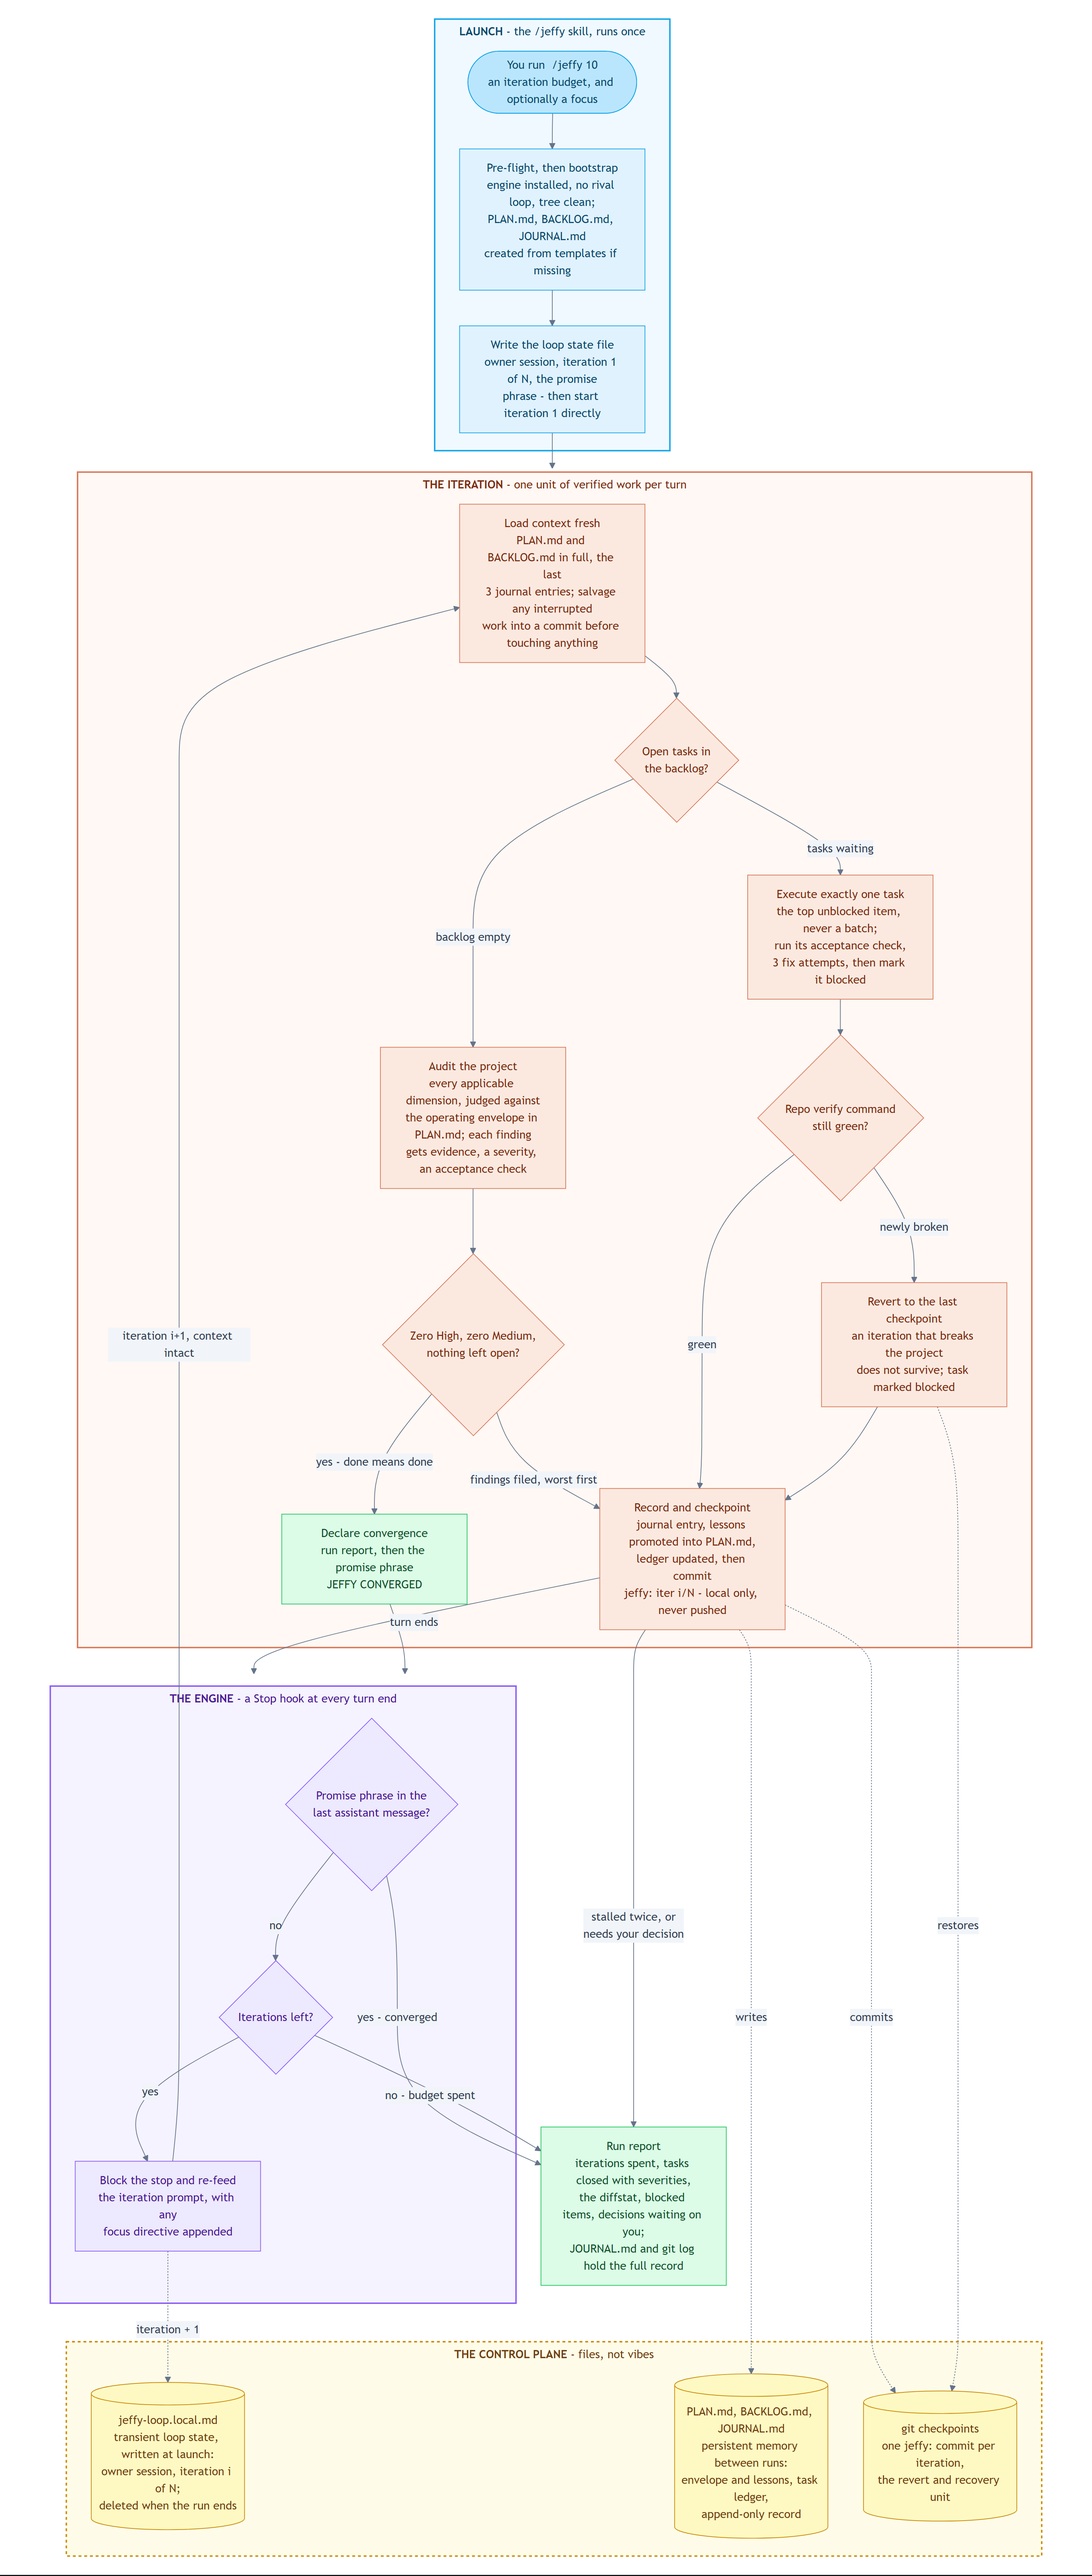
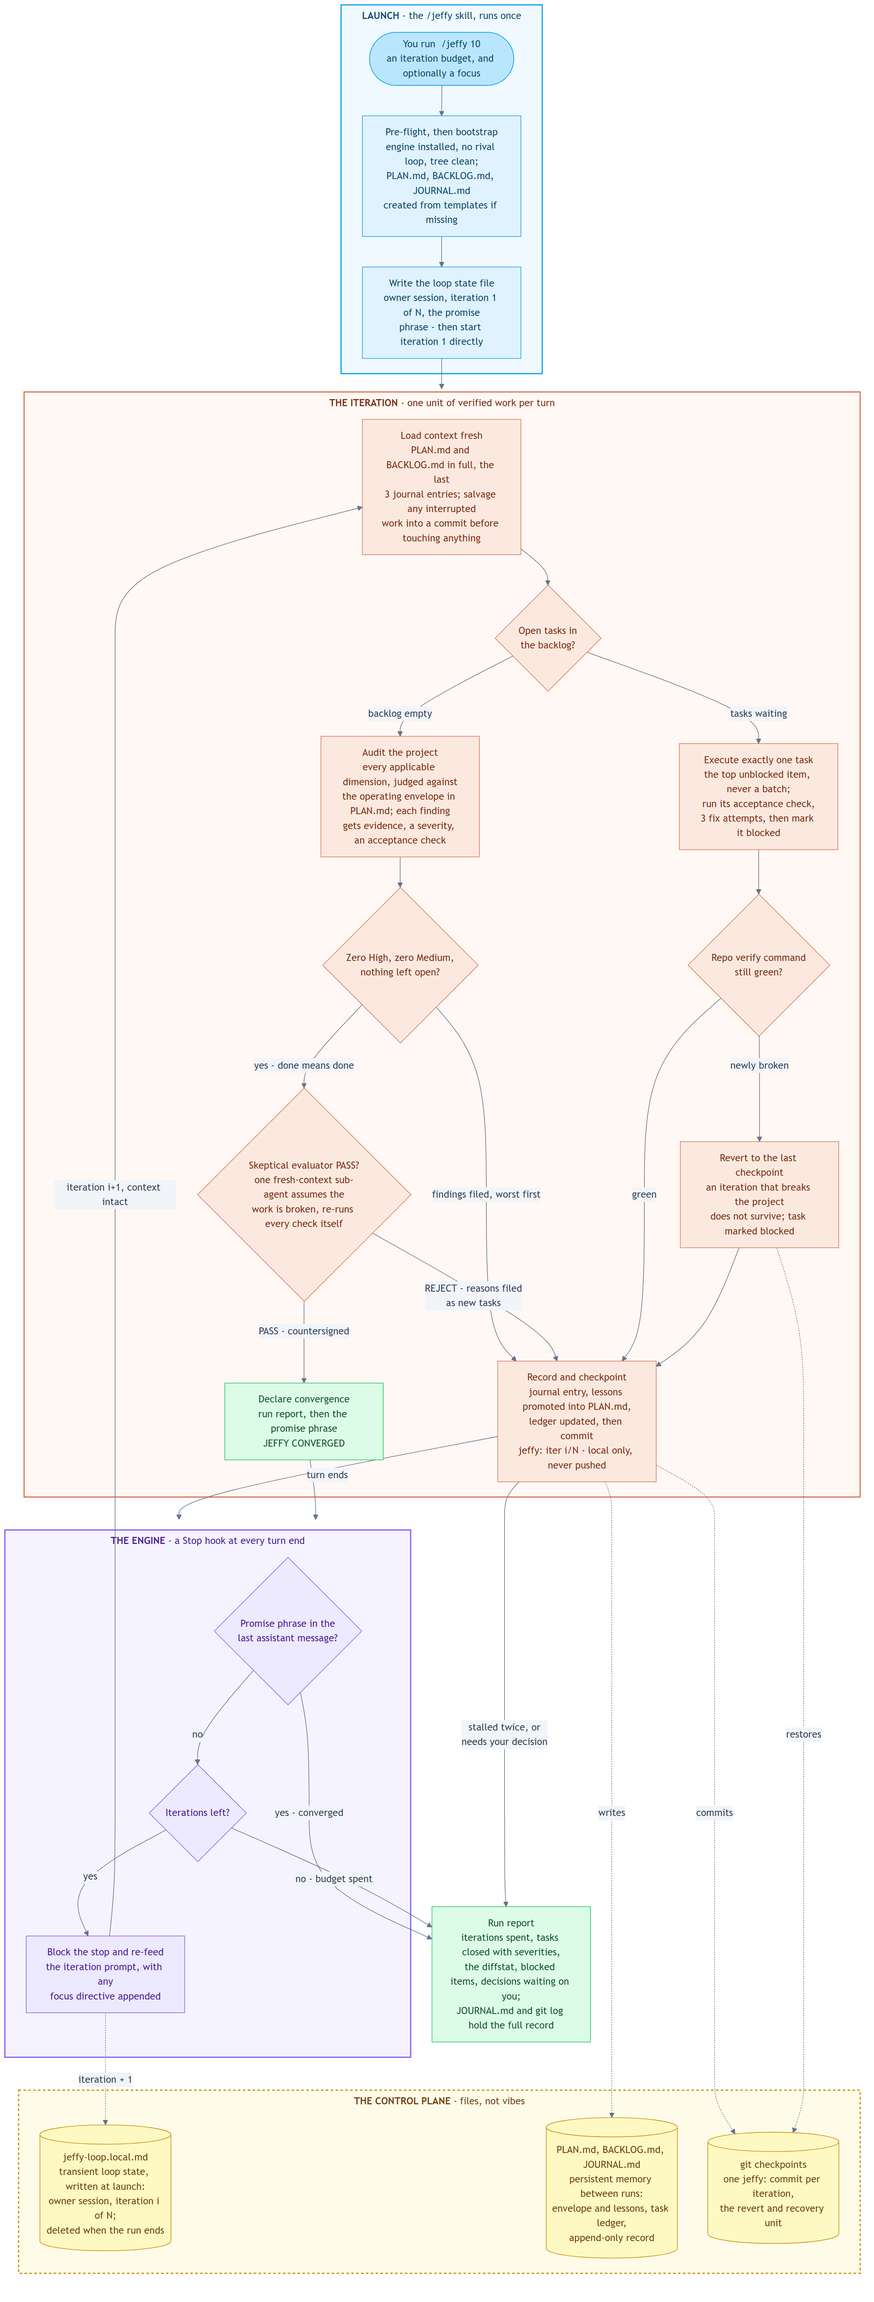
Add the convergence evaluator to the README flowchart
The skeptical fresh-context evaluator gate now appears on the
convergence path: the clean-audit decision routes through it, PASS
countersigns the declaration, REJECT files its reasons as new tasks.
Both theme PNGs re-rendered from the updated source at 3x; README alt
text updated to match.

Claude-Session: https://claude.ai/code/session_01CR2x9KKyemygZCafmNF2E9

diff --git a/README.md b/README.md
@@ -31,7 +31,7 @@ Then open Claude Code in the project you want to improve and type `/jeffy 10`. I
 
 <picture>
   <source media="(prefers-color-scheme: dark)" srcset="media/flowchart-dark.png">
-  <img src="media/flowchart-light.png" alt="Flowchart of a /jeffy run: the launch skill bootstraps the state files, each iteration audits or executes one verified task and checkpoints it, and the Stop hook re-feeds the loop until convergence, budget end, or a blocker - all steered by three files and the git log." width="830">
+  <img src="media/flowchart-light.png" alt="Flowchart of a /jeffy run: the launch skill bootstraps the state files, each iteration audits or executes one verified task and checkpoints it, a fresh-context skeptical evaluator countersigns convergence, and the Stop hook re-feeds the loop until convergence, budget end, or a blocker - all steered by three files and the git log." width="830">
 </picture>
 
 <sub>How one command becomes a run. Solid arrows are control flow; dashed arrows are the file reads and writes that steer it. Outside a run the Stop hook exits instantly - no live state file, no behavior - and <code>/cancel-jeffy</code> ends a run at any time. Diagram source: <a href="media/flowchart.mmd"><code>media/flowchart.mmd</code></a>.</sub>
